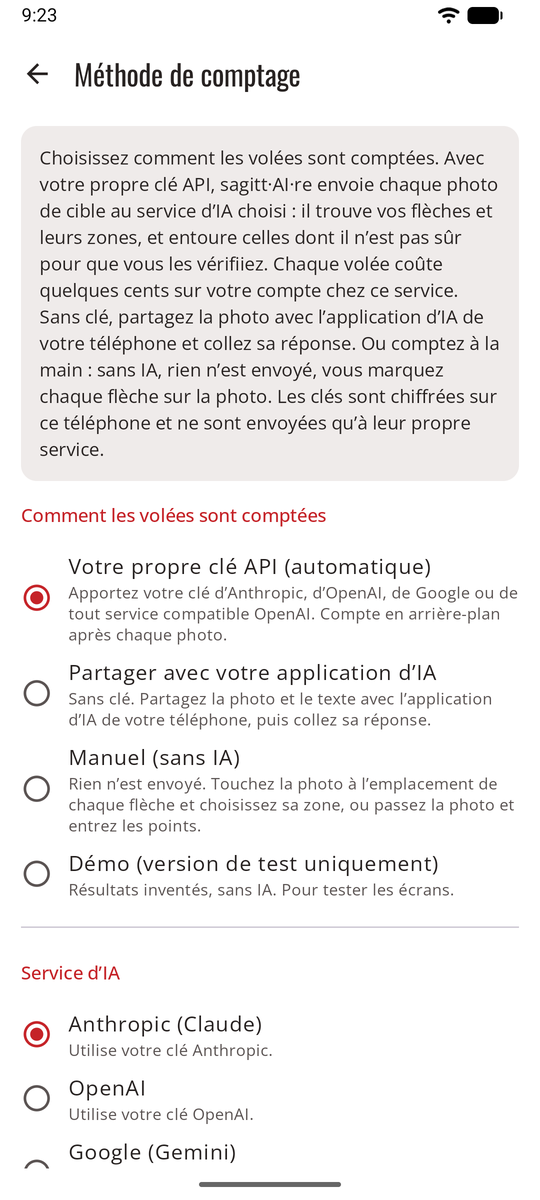
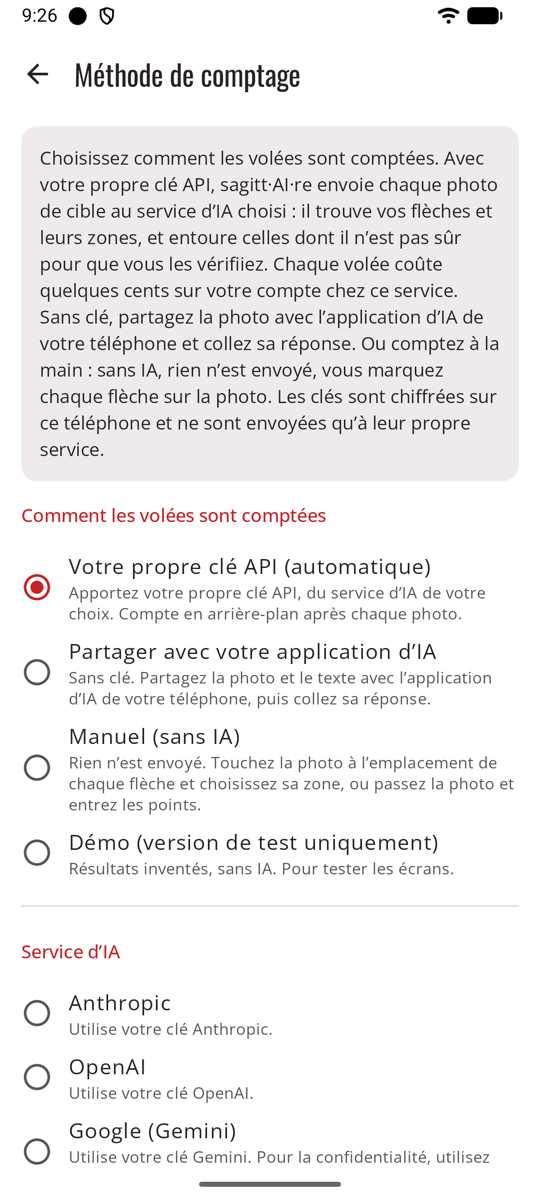
Update the sagitt·AI·re site

diff --git a/sagittaire/docs/scoring-api.fr.md b/sagittaire/docs/scoring-api.fr.md
@@ -17,9 +17,11 @@ La méthode automatique : après chaque photo, sagitt·AI·re envoie la cible a
 
 ## Choisir le service d’IA
 
+Aucun service n’est choisi pour vous : choisissez celui dont vous avez la clé, puis sa clé et son guide apparaissent.
+
 | Service | Modèles |
 |---------|---------|
-| **Anthropic (Claude)** | Opus 5.5 (par défaut), Sonnet 5.5 (moins cher) |
+| **Anthropic** | Opus 5.5 (par défaut), Sonnet 5.5 (moins cher) |
 | **OpenAI** | GPT-6.1 Sol (par défaut), GPT-6 Astra (le plus puissant, environ 5 fois plus cher) |
 | **Google (Gemini)** | Gemini 4 Carbon (par défaut), Gemini 3.8 Flash (plus rapide, moins cher). Utilisez une clé d’un projet avec la facturation activée (voir [Confidentialité](privacy.md)). |
 | **Autre service (compatible OpenAI)** | N’importe quel modèle que vous nommez, sur tout service qui utilise le format de conversation d’OpenAI : OpenRouter, Mistral, Groq, une passerelle d’entreprise… |

diff --git a/sagittaire/docs/scoring-api.es.md b/sagittaire/docs/scoring-api.es.md
@@ -17,9 +17,11 @@ El método automático: después de cada foto, sagitt·AI·re envía la diana al
 
 ## Elige el servicio de IA { #choose-the-ai-service }
 
+No hay ningún servicio elegido de antemano: elige aquel del que tengas la clave, y aparecerán su clave y su guía.
+
 | Servicio | Modelos |
 |---------|--------|
-| **Anthropic (Claude)** | Opus 5.5 (predeterminado), Sonnet 5.5 (más barato) |
+| **Anthropic** | Opus 5.5 (predeterminado), Sonnet 5.5 (más barato) |
 | **OpenAI** | GPT-6.1 Sol (predeterminado), GPT-6 Astra (el más capaz, unas 5 veces el precio) |
 | **Google (Gemini)** | Gemini 4 Carbon (predeterminado), Gemini 3.8 Flash (más rápido, más barato). Usa una clave de un proyecto con la facturación activada (consulta [Privacidad](privacy.md)). |
 | **Otro servicio (compatible con OpenAI)** | El modelo que indiques, en cualquier servicio que use el formato de chat de OpenAI: OpenRouter, Mistral, Groq, la pasarela de una empresa… |

diff --git a/sagittaire/docs/scoring-api.de.md b/sagittaire/docs/scoring-api.de.md
@@ -17,9 +17,11 @@ Die automatische Methode: Nach jedem Foto sendet sagitt·AI·re die Scheibe an d
 
 ## Den KI-Dienst wählen { #choose-the-ai-service }
 
+Es ist kein Dienst für dich vorausgewählt: Wähle den, dessen Schlüssel du hast, dann erscheinen sein Schlüssel und seine Anleitung.
+
 | Dienst | Modelle |
 |---------|--------|
-| **Anthropic (Claude)** | Opus 5.5 (Standard), Sonnet 5.5 (günstiger) |
+| **Anthropic** | Opus 5.5 (Standard), Sonnet 5.5 (günstiger) |
 | **OpenAI** | GPT-6.1 Sol (Standard), GPT-6 Astra (am leistungsfähigsten, etwa 5-facher Preis) |
 | **Google (Gemini)** | Gemini 4 Carbon (Standard), Gemini 3.8 Flash (schneller, günstiger). Nimm einen Schlüssel aus einem Projekt mit aktivierter Abrechnung (siehe [Datenschutz](privacy.md)). |
 | **Anderer Dienst (OpenAI-kompatibel)** | Jedes Modell, das du angibst, bei jedem Dienst, der das Chat-Format von OpenAI nutzt: OpenRouter, Mistral, Groq, ein Firmen-Gateway… |

diff --git a/sagittaire/docs/how-it-works.fr.md b/sagittaire/docs/how-it-works.fr.md
@@ -77,7 +77,7 @@ Vous corrigez une flèche entourée d'une touche, ajoutez une flèche oubliée o
 
 | Méthode | Comment |
 |---------|---------|
-| **[Votre propre clé API](scoring-api.md)** | Automatique, en arrière-plan. Anthropic (Claude), Google (Gemini), OpenAI, ou tout service compatible OpenAI à l’adresse que vous indiquez. |
+| **[Votre propre clé API](scoring-api.md)** | Automatique, en arrière-plan. Anthropic, Google (Gemini), OpenAI, ou tout service compatible OpenAI à l’adresse que vous indiquez. |
 | **[Partager avec votre application d’IA](scoring-share.md)** | Sans clé : partagez la photo et le texte avec l’application d’IA de votre téléphone, puis collez sa réponse. |
 | **[Manuel](scoring-manual.md)** | Sans IA : touchez chaque flèche sur la photo et choisissez sa zone. Rien n’est envoyé. |
 | **À la main** | Toujours possible, sur chaque volée, quelle que soit la méthode. |

diff --git a/sagittaire/docs/how-it-works.de.md b/sagittaire/docs/how-it-works.de.md
@@ -77,7 +77,7 @@ Du korrigierst jeden eingekreisten Pfeil mit einem Tippen, fügst einen überseh
 
 | Methode | Wie |
 |--------|-----|
-| **[Dein eigener API-Schlüssel](scoring-api.md)** | Automatisch, im Hintergrund. Anthropic (Claude), Google (Gemini), OpenAI oder jeder OpenAI-kompatible Dienst unter der Adresse, die du angibst. |
+| **[Dein eigener API-Schlüssel](scoring-api.md)** | Automatisch, im Hintergrund. Anthropic, Google (Gemini), OpenAI oder jeder OpenAI-kompatible Dienst unter der Adresse, die du angibst. |
 | **[Mit deiner KI-App teilen](scoring-share.md)** | Kein Schlüssel: Teile Foto und Anweisung mit der KI-App auf deinem Handy und füge ihre Antwort ein. |
 | **[Von Hand](scoring-manual.md)** | Keine KI: Tippe jeden Pfeil auf dem Foto an und wähle seinen Ring. Nichts wird gesendet. |
 | **Direkt eintippen** | Immer möglich, bei jeder Passe, egal mit welcher Methode. |

diff --git a/sagittaire/docs/how-it-works.es.md b/sagittaire/docs/how-it-works.es.md
@@ -77,7 +77,7 @@ Corriges cualquier flecha marcada con un toque, añades una flecha que falte o q
 
 | Método | Cómo |
 |--------|-----|
-| **[Tu propia clave de API](scoring-api.md)** | Automático, en segundo plano. Anthropic (Claude), Google (Gemini), OpenAI, o cualquier servicio compatible con OpenAI en la dirección que indiques. |
+| **[Tu propia clave de API](scoring-api.md)** | Automático, en segundo plano. Anthropic, Google (Gemini), OpenAI, o cualquier servicio compatible con OpenAI en la dirección que indiques. |
 | **[Compartir con tu app de IA](scoring-share.md)** | Sin clave: comparte la foto y el prompt con la app de IA de tu teléfono y pega su respuesta. |
 | **[Manual](scoring-manual.md)** | Sin IA: toca cada flecha en la foto y elige su zona. No se envía nada. |
 | **A mano** | Siempre es posible, en cualquier tanda, sea cual sea el método. |

diff --git a/sagittaire/docs/scoring-api.md b/sagittaire/docs/scoring-api.md
@@ -17,9 +17,11 @@ The automatic method: after each photo, sagitt·AI·re sends the target to the A
 
 ## Choose the AI service
 
+None is chosen for you: pick the service whose key you have, and its key and guide appear.
+
 | Service | Models |
 |---------|--------|
-| **Anthropic (Claude)** | Opus 5.5 (default), Sonnet 5.5 (cheaper) |
+| **Anthropic** | Opus 5.5 (default), Sonnet 5.5 (cheaper) |
 | **OpenAI** | GPT-6.1 Sol (default), GPT-6 Astra (most capable, about 5 times the price) |
 | **Google (Gemini)** | Gemini 4 Carbon (default), Gemini 3.8 Flash (faster, cheaper). Use a key from a project with billing turned on (see [Privacy](privacy.md)). |
 | **Other service (OpenAI-compatible)** | Any model you name, on any service that uses the OpenAI chat format: OpenRouter, Mistral, Groq, a company gateway… |

diff --git a/sagittaire/docs/how-it-works.md b/sagittaire/docs/how-it-works.md
@@ -77,7 +77,7 @@ You fix any circled arrow with one tap, add a missed arrow or remove another arc
 
 | Method | How |
 |--------|-----|
-| **[Your own API key](scoring-api.md)** | Automatic, in the background. Anthropic (Claude), Google (Gemini), OpenAI, or any OpenAI-compatible service at the address you give. |
+| **[Your own API key](scoring-api.md)** | Automatic, in the background. Anthropic, Google (Gemini), OpenAI, or any OpenAI-compatible service at the address you give. |
 | **[Share with your AI app](scoring-share.md)** | No key: share the photo and prompt with the AI app on your phone, paste its answer. |
 | **[Manual](scoring-manual.md)** | No AI: tap each arrow on the photo and pick its ring. Nothing is sent. |
 | **By hand** | Always possible, on any end, whatever the method. |
